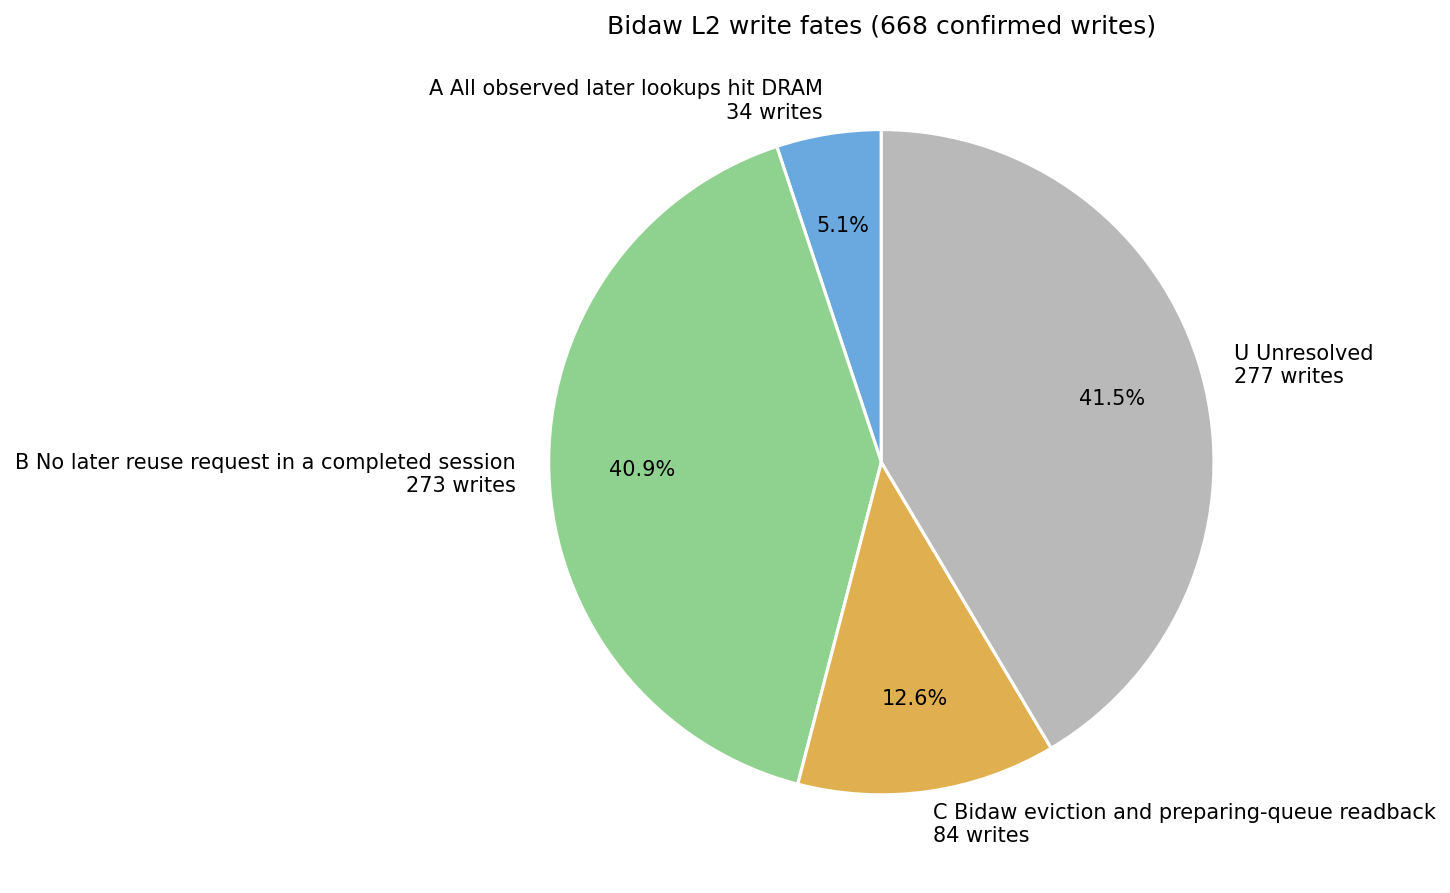
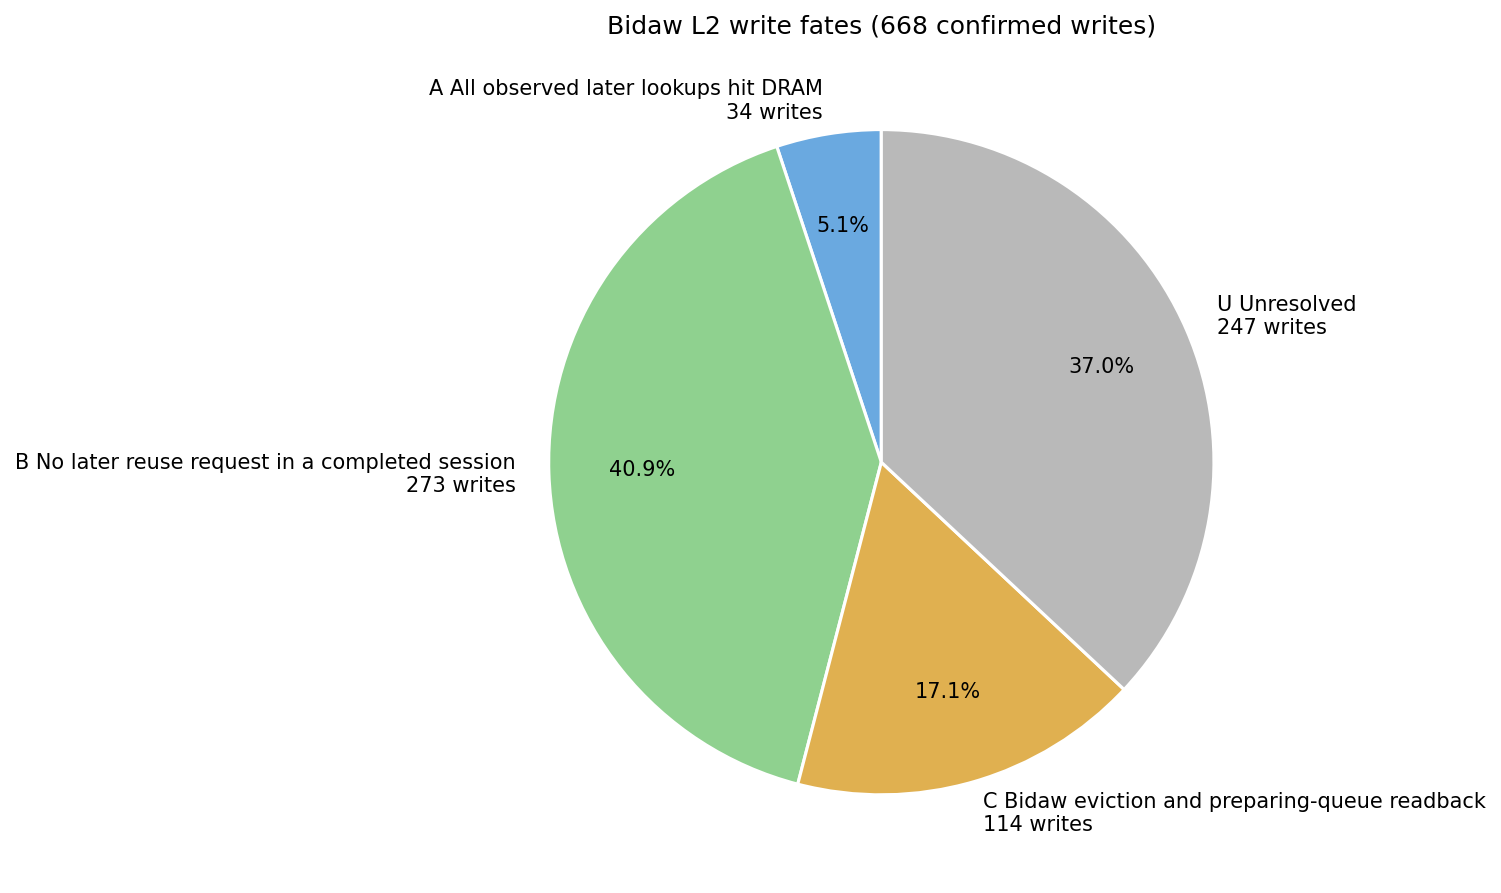
Classify SSD readbacks by eviction before lookup

diff --git a/VLLM_LMCache-fixed/bidaw/l2_fate_report.py b/VLLM_LMCache-fixed/bidaw/l2_fate_report.py
@@ -38,7 +38,6 @@ class Write:
 class ReplayRound:
     salt: str
     number: int
-    started_at: int
 
 
 def latest_run(path):
@@ -95,7 +94,7 @@ def replay_rounds(events):
                 salt in last_round and number <= rounds[last_round[salt]].number
             ):
                 invalid.add(salt)
-            rounds[round_id] = ReplayRound(salt, number, index)
+            rounds[round_id] = ReplayRound(salt, number)
             last_round[salt] = open_rounds[salt] = round_id
             continue
 
@@ -164,7 +163,7 @@ def classify(events):
             else:
                 last_scoped_lookup[key] = (index, context[1].number)
             if context is not None and copies:
-                lookups.setdefault(request_key, (index, *context))
+                lookups.setdefault(request_key, (index, context[0]))
             for write in copies.values():
                 if context is None or write.round_index is None:
                     write.unknown_lookup = True
@@ -221,8 +220,8 @@ def classify(events):
             request_key = (key, request)
             if (not write.padded and request_key in write.lookups
                     and write.eviction_policy == "bidaw_eviction_policy"):
-                submitted, round_id, scope = lookups[request_key]
-                if (0 <= write.evicted_at < scope.started_at <= submitted
+                submitted, round_id = lookups[request_key]
+                if (0 <= write.evicted_at < submitted
                     < preparing.get(request, -1) < attempt < index
                     < l2_hits.get(request_key, -1) < finished_at.get(round_id, -1)):
                     write.qualifying_requests.add(request)
@@ -290,7 +289,7 @@ def main():
 
     marker, events = latest_run(LOG_DIR / "l2_events.jsonl")
     report = {
-        "report_version": 5,
+        "report_version": 6,
         "probe_version": marker["version"],
         "run_id": marker["run"],
         **classify(events),

diff --git a/VLLM_LMCache-fixed/tests/test_l2_fate_report.py b/VLLM_LMCache-fixed/tests/test_l2_fate_report.py
@@ -151,6 +151,25 @@ class ChunkFateTests(unittest.TestCase):
         self.events[3]["policy"] = "LRU"
         self.assertEqual(self.counts()["U"], 2)
 
+    def test_c_requires_eviction_before_lookup_and_accepts_eviction_during_round(self):
+        self.start(0)
+        self.write()
+        self.finish(0)
+        self.start(1)
+        self.event("l1_evict", policy="bidaw_eviction_policy")
+        eviction = self.events[-1]
+        self.event("lookup", request="1")
+        lookup = self.events[-1]
+        self.event("preparing", request="1")
+        self.event("load_attempt", request="1", adapter="ssd")
+        self.event("load", request="1", adapter="ssd")
+        self.event("l2_hit", request="1")
+        self.finish(1)
+        self.assertEqual(self.counts()["C"], 1)
+
+        eviction["t_ns"], lookup["t_ns"] = lookup["t_ns"], eviction["t_ns"]
+        self.assertEqual(self.counts()["U"], 1)
+
     def test_same_salt_readback_without_matching_round_is_not_c(self):
         self.readback(lookup_round_id="another-request")
         self.event("l2_hit", request="1")

diff --git a/VLLM_LMCache-fixed/FIXES.md b/VLLM_LMCache-fixed/FIXES.md
@@ -152,8 +152,9 @@ python3 bidaw/l2_fate_report.py
 
 - A 要求至少一次后续轮次查询该块，写入存续期间所有已知的后续查询均命中 L1，且无 SSD 读取尝试。通过会话结束或该次写入结束确定观测范围。
 - B 要求显式的完整会话结束标记。SSD 写入后，后续轮次从未查询同一对象键，也无轮次不明的查询或 SSD 读取尝试。SSD 副本仍存在的写入也可归 B。填充尾块按自身对象键匹配。
-- C 要求该写入之后最近一次 L1 移除由 Bidaw 淘汰造成，后续完成轮次的同一次预取经
-  双队列等待路径派发，FS 确认读回且预取结果计为 L2 命中。独立填充尾块计入物理写入
+- C 要求该写入之后最近一次 L1 移除由 Bidaw 淘汰造成，且淘汰早于后续轮次的缓存查询提交，
+  可以发生在该轮开始之后。同一次预取须经双队列等待路径派发，FS 确认读回且预取结果
+  在该轮结束前计为 L2 命中。独立填充尾块计入物理写入
   分母，普通回放中归类时不会计为 C。
 - U 包括证据不完整的写入。因上下文上限截断、预热跳过或请求失败，回放不会为该会话发送完整结束标记。
 
